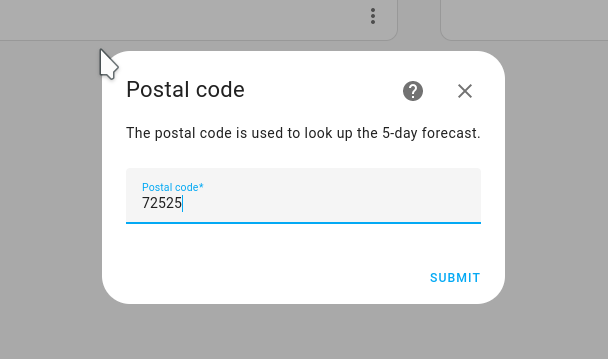
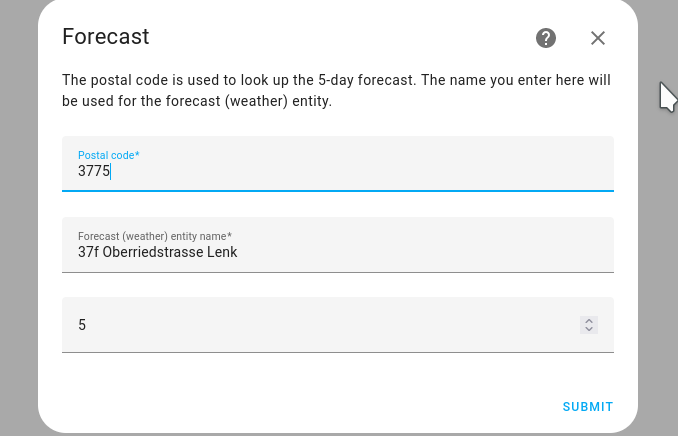
Update docs.

diff --git a/README.md b/README.md
@@ -67,16 +67,20 @@ Now you are ready to add one or more instances of the integration.
 ![enter image description here](https://github.com/Rudd-O/homeassistant-meteoswiss/raw/master/docs/search.png)
 
 - By default the integration will try to determine the best settings for you
-  based on your Home zone latitude and longitude:
+  based on your Home zone latitude and longitude (which you can override):
 
 ![enter image description here](https://github.com/Rudd-O/homeassistant-meteoswiss/raw/master/docs/latitude.png)
 
-- The next screen will ask you (with a good guess) about your postal code:
+- The next screen will ask you (with a good guess) about your postal code, and update interval.  This information
+  will be used by the weather entity — and the name onscreen is what your weather entity will be named after.
 
 ![enter image description here](https://github.com/Rudd-O/homeassistant-meteoswiss/raw/master/docs/postalcode.png)
 
 - Finally, you get to select the real-time weather station closest to you
-  (a good guess is provided) and name your location:
+  (a good guess is provided) and name your location.  You can select no
+  weather station if you so desire — useful if there is no real-time
+  weather station near where you live — in which case the real-time sensor
+  data is simply not provided as sensors.
 
 ![enter image description here](https://github.com/Rudd-O/homeassistant-meteoswiss/raw/master/docs/weatherstation.png)
 
